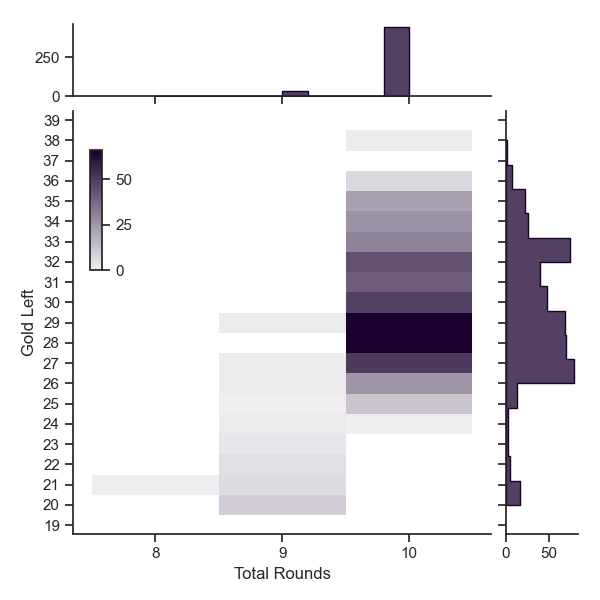
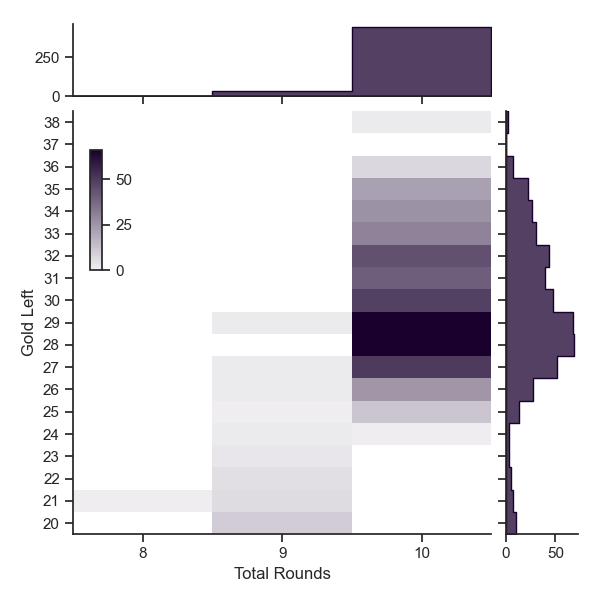
seaborn graph fixes and start/goal variation

diff --git a/graphing.py b/graphing.py
@@ -2,6 +2,7 @@ from collections import Counter
 import seaborn as sns
 import pandas as pd
 import matplotlib.pyplot as plt
+import numpy as np
 from simulator import simulation
 
 def create_joint_grid(df):
@@ -11,6 +12,11 @@ def create_joint_grid(df):
 
     cax = g.figure.add_axes([.15, .55, .02, .2])
 
+    # Define bins for the x-axis
+    x_bins = np.arange(df["Total Rounds"].min() - 0.5, df["Total Rounds"].max() + 1.5, 1)
+    # Define bins for the y-axis
+    y_bins = np.arange(df["Gold Left"].min() - 0.5, df["Gold Left"].max() + 1.5, 1)
+
     # Add the joint and marginal histogram plots
     g.plot_joint(
         sns.histplot, 
@@ -19,9 +25,25 @@ def create_joint_grid(df):
         pmax=.8, 
         cbar=True, 
         cbar_ax=cax,
-        cbar_kws={"shrink": 0.75}
+        cbar_kws={"shrink": 0.75},
+        binwidth=(1, 1),  # Assuming that the bin width for both x and y is 1
+        bins=(x_bins, y_bins)
     )
-    g.plot_marginals(sns.histplot, element="step", color="#19002D")  
+    
+    g.plot_marginals(sns.histplot, element="step", color="#19002D", bins=x_bins, common_norm=False, common_bins=False)
+    g.plot_marginals(sns.histplot, element="step", color="#19002D", bins=y_bins, common_norm=False, common_bins=False, fill=True, multiple="dodge")
+
+    # Explicitly set the limits of the x and y axes
+    g.ax_joint.set_xlim(df["Total Rounds"].min() - 0.5, df["Total Rounds"].max() + 0.5)
+    g.ax_joint.set_ylim(df["Gold Left"].min() - 0.5, df["Gold Left"].max() + 0.5)
+
+    # Set the ticks for x and y axis
+    g.ax_joint.set_xticks(np.arange(df["Total Rounds"].min() - 0.5, df["Total Rounds"].max() + 1.5, 1))
+    g.ax_joint.set_yticks(np.arange(df["Gold Left"].min() - 0.5, df["Gold Left"].max() + 1.5, 1))
+
+    # Setting the ticks for the marginal axes can be done similarly, if needed
+    g.ax_marg_x.set_xlim(df["Total Rounds"].min() - 0.5, df["Total Rounds"].max() + 0.5)
+    g.ax_marg_y.set_ylim(df["Gold Left"].min() - 0.5, df["Gold Left"].max() + 0.5)
 
     # Adjust x and y axis to only show whole numbers
     g.ax_joint.xaxis.set_major_locator(plt.MultipleLocator(1))
@@ -61,12 +83,58 @@ def create_binned_joint_grid(df):
     plt.show()
 
 def main():
-    results = []
-    simulation(0, 0, True, 8, 128, results)
-    df = pd.DataFrame(results, columns = ['Total Rounds', 'Gold Left'])
+    # results = []
+    # simulation(0, 0, True, 8, 128, results)
+    # df = pd.DataFrame(results, columns = ['Total Rounds', 'Gold Left'])
 
-    create_joint_grid(df)
-    create_binned_joint_grid(df)
+    # create_joint_grid(df)
+    # # create_binned_joint_grid(df)
+    
+    # overlapping densities plot for this
+
+    # different_starts = {}
+    # start_averages = []
+    # for i in range(5, 15):
+    #     results = []
+    #     simulation(0,0,True,i,128,results)
+    #     df = pd.DataFrame(results, columns = ['Total Rounds', 'Gold Left'])
+    #     start_averages.append(df["Total Rounds"].mean())
+    #     different_starts[i] = df
+    
+    # print(start_averages)
+
+    # another overlapping densities plot for this
+
+    # Level+Gold   8+0  8+10 8+20 8+30 8+30 8+30 9+0  9+10
+    breakpoints = [108, 118, 128, 138, 148, 158, 188, 208]
+    # different_goals = {}
+    # goal_averages = []
+    # for breakpoint in breakpoints:
+    #     results=[]
+    #     simulation(0, 0, True, 8, breakpoint, results)
+    #     df = pd.DataFrame(results, columns = ['Total Rounds', 'Gold Left'])
+    #     goal_averages.append(df["Total Rounds"].mean())
+    #     different_goals[breakpoint] = df
+
+    # print(goal_averages)
+
+    # combo graph of breakpoints and gold starts, make a surface plot with y axis = rounds
+
+    combo_averages = []
+    for breakpoint in breakpoints:
+        starts = []
+        for i in range(5, 15):
+            results = []
+            simulation(0,0,True,i,breakpoint,results)
+            df = pd.DataFrame(results, columns = ['Total Rounds', 'Gold Left'])
+            starts.append(df["Total Rounds"].mean())
+        combo_averages.append(starts)
+    
+    combos = pd.DataFrame(combo_averages, index= breakpoints, columns=range(5,15))
+    print(combos)
+
+
+
 
 if __name__ == "__main__":
     main()

diff --git a/simulator.py b/simulator.py
@@ -68,7 +68,6 @@ def simulation(rounds, streak, win, gold, goal, results):
 
 
     if gold >= goal: # if conditions are fulfilled, add number of rounds and gold left to results array. Can add more interesting data instead here.
-        print(rounds, streak, win, gold, goal)
         results.append((rounds, gold-goal + 20))
     elif rounds % 6 == 5: # if it's a creep round, keep streak and type of streak, but don't add to it.
         simulation(rounds + 1, streak, win, gold, goal, results)

diff --git a/README.md b/README.md
@@ -19,7 +19,7 @@ Methods:
 Future Implementations:
 - Visualization
 - Broader range of gold starts
-- Greateer variety of data results, like total wins and losses, and overall round history (ex: WWLWLWWLLL)
+- Greater variety of data results, like total wins and losses, and overall round history (ex: WWLWLWWLLL)
 - Relax loss assumption by having hard cap on total losses (8?)
 - Broader range of goal golds with rationales
 - Relax assumptions about buying units, upgrading, and leveling
